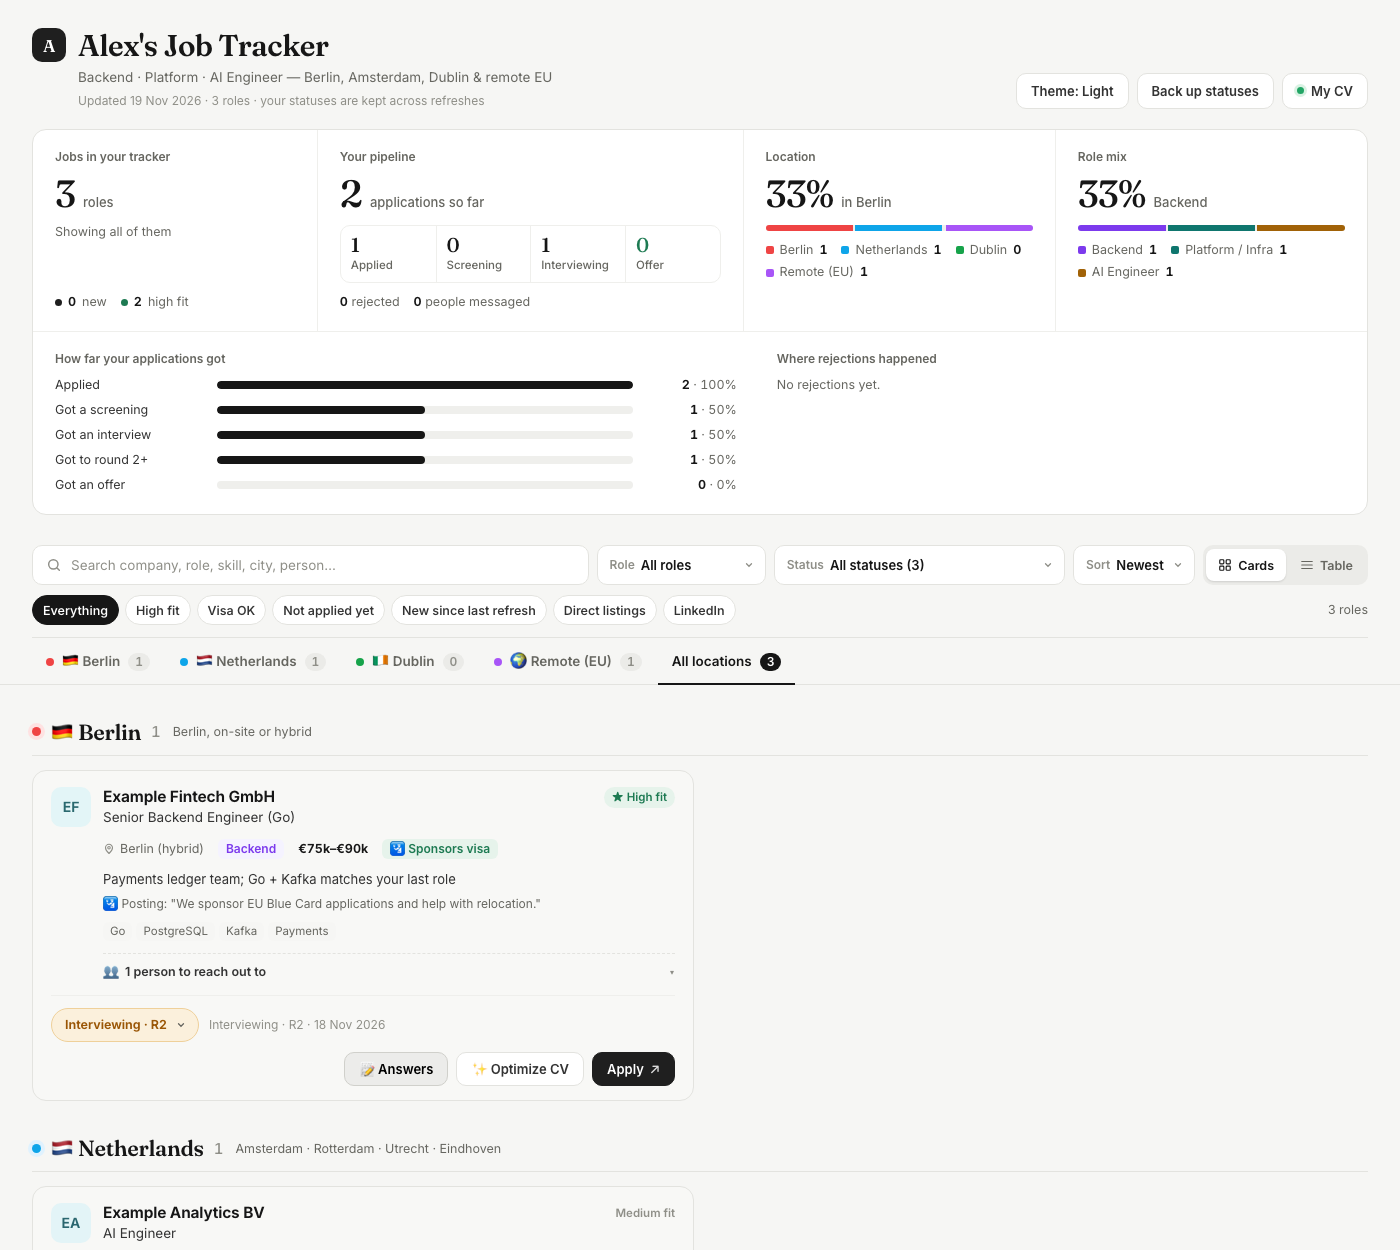
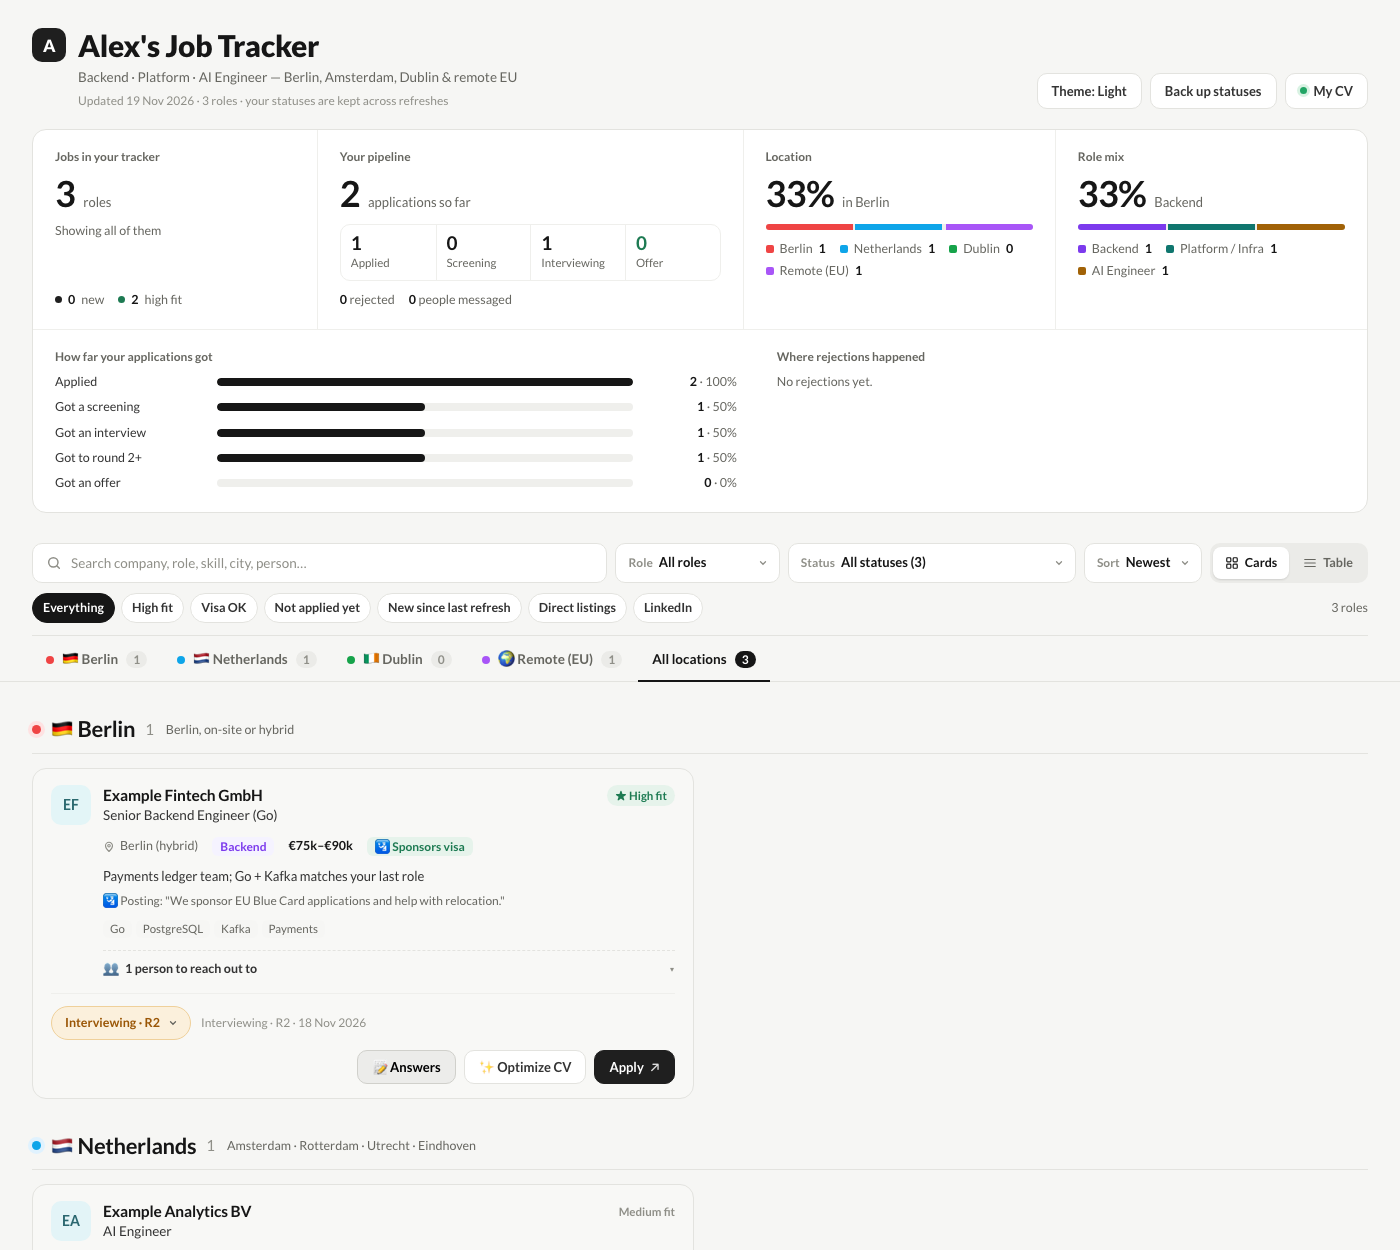
Use Lato for the whole tracker page

diff --git a/examples/Example_Job_Tracker.html b/examples/Example_Job_Tracker.html
@@ -12,7 +12,7 @@
 </script>
 <link rel="preconnect" href="https://fonts.googleapis.com">
 <link rel="preconnect" href="https://fonts.gstatic.com" crossorigin>
-<link href="https://fonts.googleapis.com/css2?family=Fraunces:opsz,wght@9..144,400..700&family=Inter:wght@400..700&display=swap" rel="stylesheet">
+<link href="https://fonts.googleapis.com/css2?family=Lato:ital,wght@0,400;0,700;0,900;1,400&display=swap" rel="stylesheet">
 <style>
 /* ══ Next Move tracker: design v5 ("ledger") ══════════════════════════════
    One layer, one set of tokens. Design notes: docs/tracker-design.md      */
@@ -29,15 +29,15 @@
   --ai:#7c3aed; --ai-soft:#f3effd;
   --r-sm:8px; --r:10px; --r-lg:14px;
   --gut:32px;
-  --f-ui:'Inter',-apple-system,BlinkMacSystemFont,'Segoe UI',Roboto,sans-serif;
-  --f-display:'Fraunces','Iowan Old Style','Palatino Linotype',Georgia,serif;
+  --f-ui:'Lato',-apple-system,BlinkMacSystemFont,'Segoe UI',Roboto,sans-serif;
+  --f-display:'Lato',-apple-system,BlinkMacSystemFont,'Segoe UI',Roboto,sans-serif;
   --on-ink:#ffffff; --field:#ffffff; --lf:30%; --ls:55%; --lb:93%;
   --sh-pop:0 1px 2px rgba(0,0,0,.06),0 16px 40px -14px rgba(0,0,0,.28);
   --focus:0 0 0 3px rgba(22,22,22,.18);
 }
 *,*::before,*::after{box-sizing:border-box;margin:0;padding:0}
 html{-webkit-text-size-adjust:100%}
-body{font:13.5px/1.45 var(--f-ui);font-feature-settings:'cv11','ss01';background:var(--bg);color:var(--ink);-webkit-font-smoothing:antialiased;overflow-x:hidden}
+body{font:13.5px/1.45 var(--f-ui);background:var(--bg);color:var(--ink);-webkit-font-smoothing:antialiased;overflow-x:hidden}
 button,input,select,textarea{font-family:inherit}
 button:focus-visible,a:focus-visible,select:focus-visible,input:focus-visible{outline:none;box-shadow:var(--focus)}
 .hidden{display:none!important}
@@ -45,8 +45,8 @@ button:focus-visible,a:focus-visible,select:focus-visible,input:focus-visible{ou
 
 /* ── header ─────────────────────────────────────────────── */
 header{display:flex;justify-content:space-between;align-items:flex-end;gap:16px;padding:28px var(--gut) 20px}
-header h1{display:flex;align-items:center;gap:12px;font:600 30px/1.1 var(--f-display);letter-spacing:-.015em;font-variation-settings:'opsz' 36;color:var(--ink)}
-.mark{display:inline-grid;place-items:center;width:34px;height:34px;border-radius:10px;background:var(--accent);color:var(--on-ink);font:600 17px/1 var(--f-display)}
+header h1{display:flex;align-items:center;gap:12px;font:900 30px/1.1 var(--f-display);letter-spacing:-.01em;color:var(--ink)}
+.mark{display:inline-grid;place-items:center;width:34px;height:34px;border-radius:10px;background:var(--accent);color:var(--on-ink);font:900 17px/1 var(--f-display)}
 header p{color:var(--muted);font-size:13.5px;margin:6px 0 0 46px}
 .pill{display:block;margin:4px 0 0 46px;color:var(--faint);font-size:12px}
 .h-acts{display:flex;gap:8px;flex-wrap:wrap;justify-content:flex-end}
@@ -60,7 +60,7 @@ header p{color:var(--muted);font-size:13.5px;margin:6px 0 0 46px}
 .dc:first-child{border-left:none}
 .dc-k{font-size:12px;font-weight:600;color:var(--muted)}
 .dc-big{display:flex;align-items:baseline;gap:8px;flex-wrap:wrap}
-.dc-big>span:first-child{font:500 38px/1 var(--f-display);font-variation-settings:'opsz' 28;letter-spacing:-.02em;color:var(--ink);font-variant-numeric:tabular-nums lining-nums}
+.dc-big>span:first-child{font:700 36px/1 var(--f-display);letter-spacing:-.02em;color:var(--ink);font-variant-numeric:tabular-nums lining-nums}
 .dc-of{font-size:13px;color:var(--muted);font-weight:500}
 .dc-note{font-size:12.5px;color:var(--muted)}.dc-note b{color:var(--accent);font-weight:650}
 .dc-pills{display:flex;gap:14px;flex-wrap:wrap;margin-top:auto}
@@ -72,7 +72,7 @@ header p{color:var(--muted);font-size:13.5px;margin:6px 0 0 46px}
 .dc-steps{display:grid;grid-template-columns:repeat(4,minmax(0,1fr));border:1px solid var(--line2);border-radius:var(--r);overflow:hidden;margin-top:2px}
 .st-i{display:flex;flex-direction:column;gap:1px;padding:8px 10px;border-left:1px solid var(--line2);position:relative;min-width:0}
 .st-i:first-child{border-left:none}
-.st-i b{font:500 20px/1.1 var(--f-display);font-variation-settings:'opsz' 20;color:var(--ink);font-variant-numeric:tabular-nums lining-nums}
+.st-i b{font:700 19px/1.1 var(--f-display);color:var(--ink);font-variant-numeric:tabular-nums lining-nums}
 .st-i span{font-size:11.5px;color:var(--muted);font-weight:500;white-space:nowrap;overflow:hidden;text-overflow:ellipsis}
 .st-i.s-off b{color:var(--ok)}
 .dc-sub{display:flex;gap:14px;font-size:12.5px;color:var(--muted)}.dc-sub b{color:var(--ink);font-weight:650;font-variant-numeric:tabular-nums}
@@ -153,7 +153,7 @@ details.tip .tipb{padding:0 14px 14px;font-size:12.5px;line-height:1.7;color:var
 
 /* ── sections ───────────────────────────────────────────── */
 .banner{display:flex;align-items:baseline;flex-wrap:wrap;gap:4px 12px;margin:34px var(--gut) 14px;padding-bottom:10px;border-bottom:1px solid var(--line)}
-.banner h2{display:flex;align-items:center;gap:10px;font:600 22px/1.2 var(--f-display);font-variation-settings:'opsz' 30;letter-spacing:-.015em;color:var(--ink)}
+.banner h2{display:flex;align-items:center;gap:10px;font:700 22px/1.2 var(--f-display);letter-spacing:-.015em;color:var(--ink)}
 .banner h2::before{content:'';width:9px;height:9px;border-radius:50%;background:#94a3b8;flex-shrink:0}
 .banner .cnt{font:500 15px/1 var(--f-ui);color:var(--faint);letter-spacing:0;font-variant-numeric:tabular-nums}
 .banner>span{color:var(--muted);font-size:12.5px}

diff --git a/template/tracker.html b/template/tracker.html
@@ -12,7 +12,7 @@
 </script>
 <link rel="preconnect" href="https://fonts.googleapis.com">
 <link rel="preconnect" href="https://fonts.gstatic.com" crossorigin>
-<link href="https://fonts.googleapis.com/css2?family=Fraunces:opsz,wght@9..144,400..700&family=Inter:wght@400..700&display=swap" rel="stylesheet">
+<link href="https://fonts.googleapis.com/css2?family=Lato:ital,wght@0,400;0,700;0,900;1,400&display=swap" rel="stylesheet">
 <style>
 /* ══ Next Move tracker: design v5 ("ledger") ══════════════════════════════
    One layer, one set of tokens. Design notes: docs/tracker-design.md      */
@@ -29,15 +29,15 @@
   --ai:#7c3aed; --ai-soft:#f3effd;
   --r-sm:8px; --r:10px; --r-lg:14px;
   --gut:32px;
-  --f-ui:'Inter',-apple-system,BlinkMacSystemFont,'Segoe UI',Roboto,sans-serif;
-  --f-display:'Fraunces','Iowan Old Style','Palatino Linotype',Georgia,serif;
+  --f-ui:'Lato',-apple-system,BlinkMacSystemFont,'Segoe UI',Roboto,sans-serif;
+  --f-display:'Lato',-apple-system,BlinkMacSystemFont,'Segoe UI',Roboto,sans-serif;
   --on-ink:#ffffff; --field:#ffffff; --lf:30%; --ls:55%; --lb:93%;
   --sh-pop:0 1px 2px rgba(0,0,0,.06),0 16px 40px -14px rgba(0,0,0,.28);
   --focus:0 0 0 3px rgba(22,22,22,.18);
 }
 *,*::before,*::after{box-sizing:border-box;margin:0;padding:0}
 html{-webkit-text-size-adjust:100%}
-body{font:13.5px/1.45 var(--f-ui);font-feature-settings:'cv11','ss01';background:var(--bg);color:var(--ink);-webkit-font-smoothing:antialiased;overflow-x:hidden}
+body{font:13.5px/1.45 var(--f-ui);background:var(--bg);color:var(--ink);-webkit-font-smoothing:antialiased;overflow-x:hidden}
 button,input,select,textarea{font-family:inherit}
 button:focus-visible,a:focus-visible,select:focus-visible,input:focus-visible{outline:none;box-shadow:var(--focus)}
 .hidden{display:none!important}
@@ -45,8 +45,8 @@ button:focus-visible,a:focus-visible,select:focus-visible,input:focus-visible{ou
 
 /* ── header ─────────────────────────────────────────────── */
 header{display:flex;justify-content:space-between;align-items:flex-end;gap:16px;padding:28px var(--gut) 20px}
-header h1{display:flex;align-items:center;gap:12px;font:600 30px/1.1 var(--f-display);letter-spacing:-.015em;font-variation-settings:'opsz' 36;color:var(--ink)}
-.mark{display:inline-grid;place-items:center;width:34px;height:34px;border-radius:10px;background:var(--accent);color:var(--on-ink);font:600 17px/1 var(--f-display)}
+header h1{display:flex;align-items:center;gap:12px;font:900 30px/1.1 var(--f-display);letter-spacing:-.01em;color:var(--ink)}
+.mark{display:inline-grid;place-items:center;width:34px;height:34px;border-radius:10px;background:var(--accent);color:var(--on-ink);font:900 17px/1 var(--f-display)}
 header p{color:var(--muted);font-size:13.5px;margin:6px 0 0 46px}
 .pill{display:block;margin:4px 0 0 46px;color:var(--faint);font-size:12px}
 .h-acts{display:flex;gap:8px;flex-wrap:wrap;justify-content:flex-end}
@@ -60,7 +60,7 @@ header p{color:var(--muted);font-size:13.5px;margin:6px 0 0 46px}
 .dc:first-child{border-left:none}
 .dc-k{font-size:12px;font-weight:600;color:var(--muted)}
 .dc-big{display:flex;align-items:baseline;gap:8px;flex-wrap:wrap}
-.dc-big>span:first-child{font:500 38px/1 var(--f-display);font-variation-settings:'opsz' 28;letter-spacing:-.02em;color:var(--ink);font-variant-numeric:tabular-nums lining-nums}
+.dc-big>span:first-child{font:700 36px/1 var(--f-display);letter-spacing:-.02em;color:var(--ink);font-variant-numeric:tabular-nums lining-nums}
 .dc-of{font-size:13px;color:var(--muted);font-weight:500}
 .dc-note{font-size:12.5px;color:var(--muted)}.dc-note b{color:var(--accent);font-weight:650}
 .dc-pills{display:flex;gap:14px;flex-wrap:wrap;margin-top:auto}
@@ -72,7 +72,7 @@ header p{color:var(--muted);font-size:13.5px;margin:6px 0 0 46px}
 .dc-steps{display:grid;grid-template-columns:repeat(4,minmax(0,1fr));border:1px solid var(--line2);border-radius:var(--r);overflow:hidden;margin-top:2px}
 .st-i{display:flex;flex-direction:column;gap:1px;padding:8px 10px;border-left:1px solid var(--line2);position:relative;min-width:0}
 .st-i:first-child{border-left:none}
-.st-i b{font:500 20px/1.1 var(--f-display);font-variation-settings:'opsz' 20;color:var(--ink);font-variant-numeric:tabular-nums lining-nums}
+.st-i b{font:700 19px/1.1 var(--f-display);color:var(--ink);font-variant-numeric:tabular-nums lining-nums}
 .st-i span{font-size:11.5px;color:var(--muted);font-weight:500;white-space:nowrap;overflow:hidden;text-overflow:ellipsis}
 .st-i.s-off b{color:var(--ok)}
 .dc-sub{display:flex;gap:14px;font-size:12.5px;color:var(--muted)}.dc-sub b{color:var(--ink);font-weight:650;font-variant-numeric:tabular-nums}
@@ -153,7 +153,7 @@ details.tip .tipb{padding:0 14px 14px;font-size:12.5px;line-height:1.7;color:var
 
 /* ── sections ───────────────────────────────────────────── */
 .banner{display:flex;align-items:baseline;flex-wrap:wrap;gap:4px 12px;margin:34px var(--gut) 14px;padding-bottom:10px;border-bottom:1px solid var(--line)}
-.banner h2{display:flex;align-items:center;gap:10px;font:600 22px/1.2 var(--f-display);font-variation-settings:'opsz' 30;letter-spacing:-.015em;color:var(--ink)}
+.banner h2{display:flex;align-items:center;gap:10px;font:700 22px/1.2 var(--f-display);letter-spacing:-.015em;color:var(--ink)}
 .banner h2::before{content:'';width:9px;height:9px;border-radius:50%;background:#94a3b8;flex-shrink:0}
 .banner .cnt{font:500 15px/1 var(--f-ui);color:var(--faint);letter-spacing:0;font-variant-numeric:tabular-nums}
 .banner>span{color:var(--muted);font-size:12.5px}

diff --git a/docs/tracker-design.md b/docs/tracker-design.md
@@ -129,9 +129,8 @@ to the user.
 The stylesheet is one layer of tokens on `:root` followed by components; there are no stacked
 overrides. Change a token before adding a one-off colour.
 
-- **Type.** UI text is Inter; the page title, section headings, dashboard numbers and dialog titles
-  use Fraunces (a warm serif) at a low optical size so numbers stay solid. Both load from Google
-  Fonts and fall back to system sans / Georgia offline.
+- **Type.** Lato everywhere (Google Fonts, weights 400/700/900; system sans offline). The page title and
+  monogram use 900; section headings, dashboard numbers and dialog titles 700.
 - **Header.** Title with the accent monogram, tagline, one quiet "Updated … · N roles" line. Two
   plain buttons on the right: *Back up statuses*, *My CV*.
 - **Dashboard.** One panel split into four columns by hairlines (no nested cards, no gradients):
